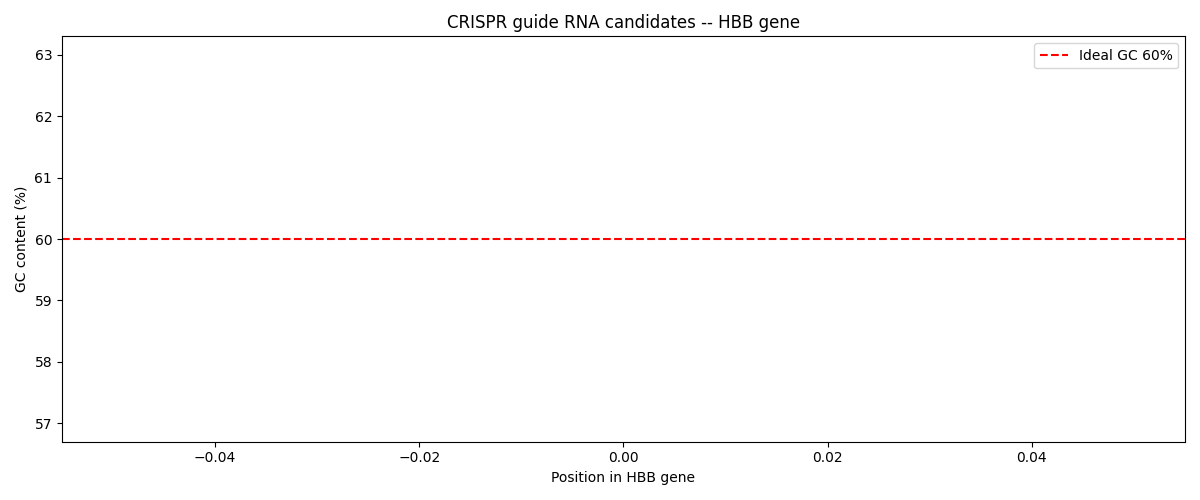
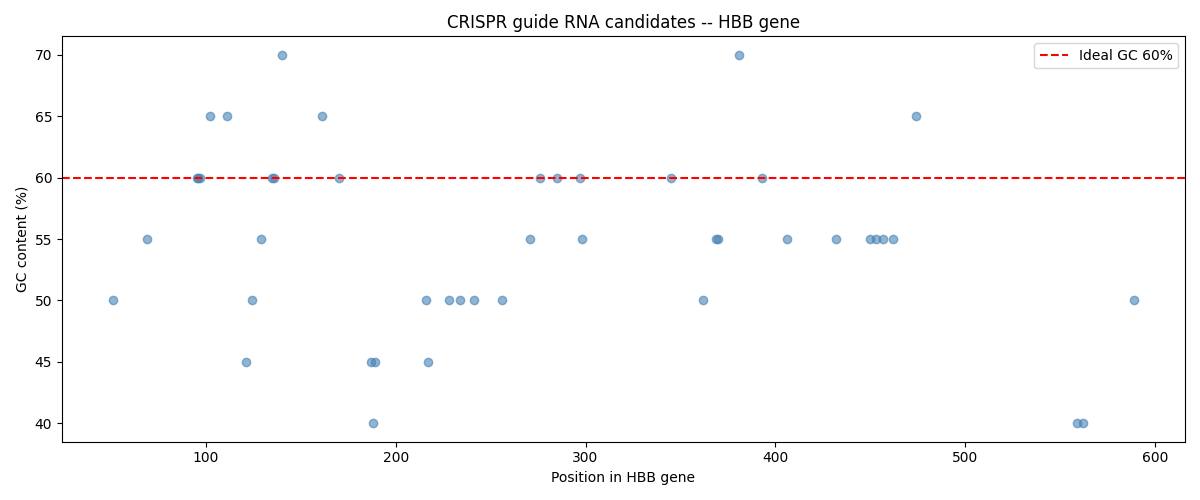
fix: seq slice bug in visualize_guides

diff --git a/visualize_guides.py b/visualize_guides.py
@@ -7,7 +7,7 @@ handle=Entrez.efetch(db="nucleotide", id="NM_000518", rettype="fasta", retmode="
 record=SeqIO.read(handle, "fasta")
 handle.close()
 
-seq=record.upper()
+seq=record.seq.upper()
 
 positions=[]
 gc_values=[]
@@ -15,7 +15,7 @@ gc_values=[]
 for i in range(20, len(seq)-3):
     pam=seq[i:i+3]
     if pam[1]=="G" and pam[2]=="G":
-        guide=seq[i-20:1]
+        guide=seq[i-20:i]
         gc=gc_fraction(guide)*100
         if 40<=gc<=70:
             positions.append(i)